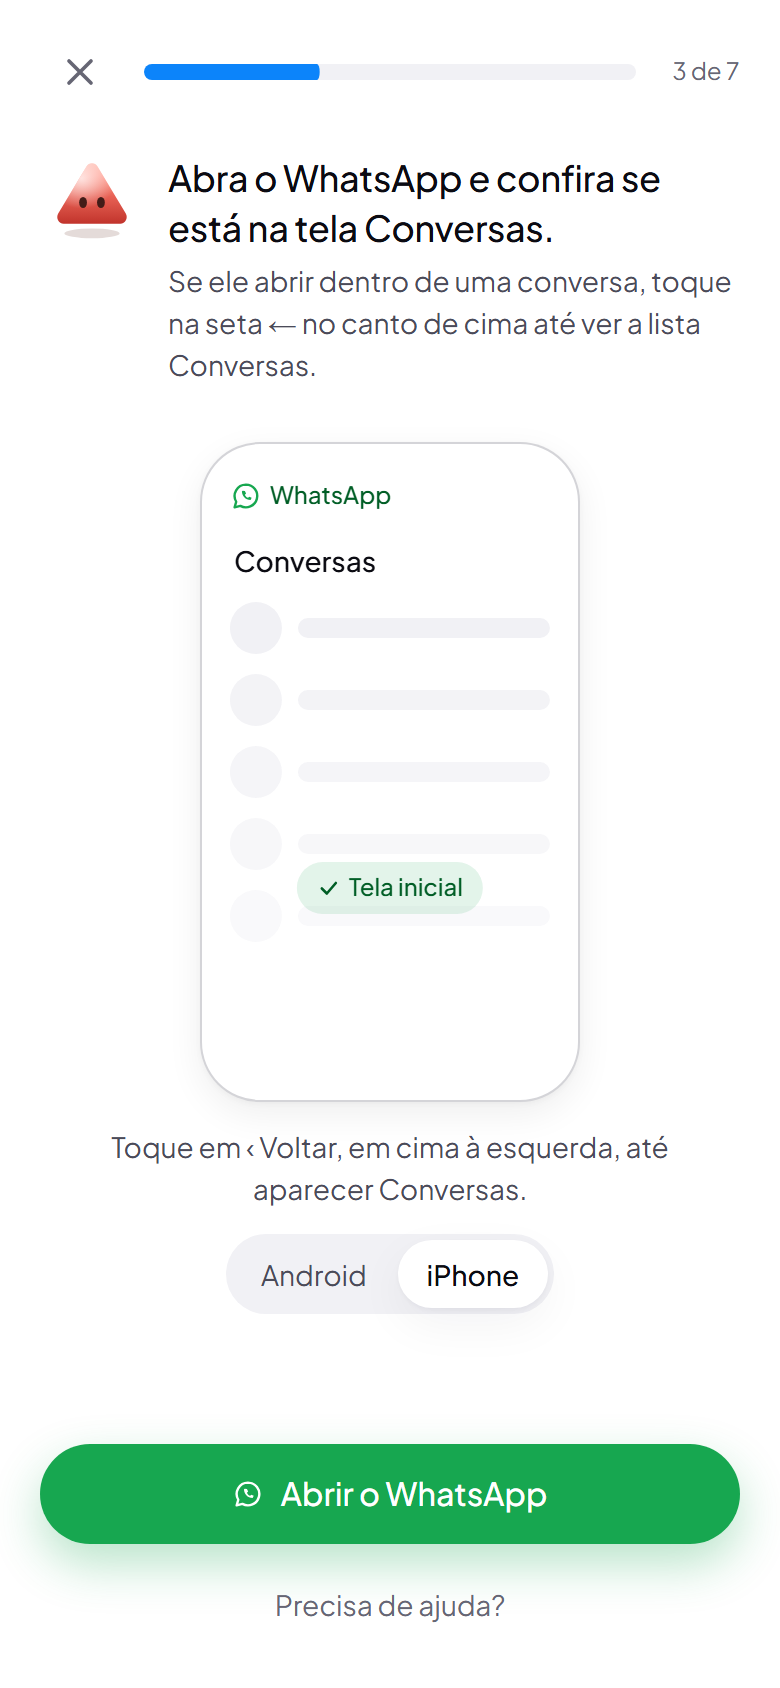
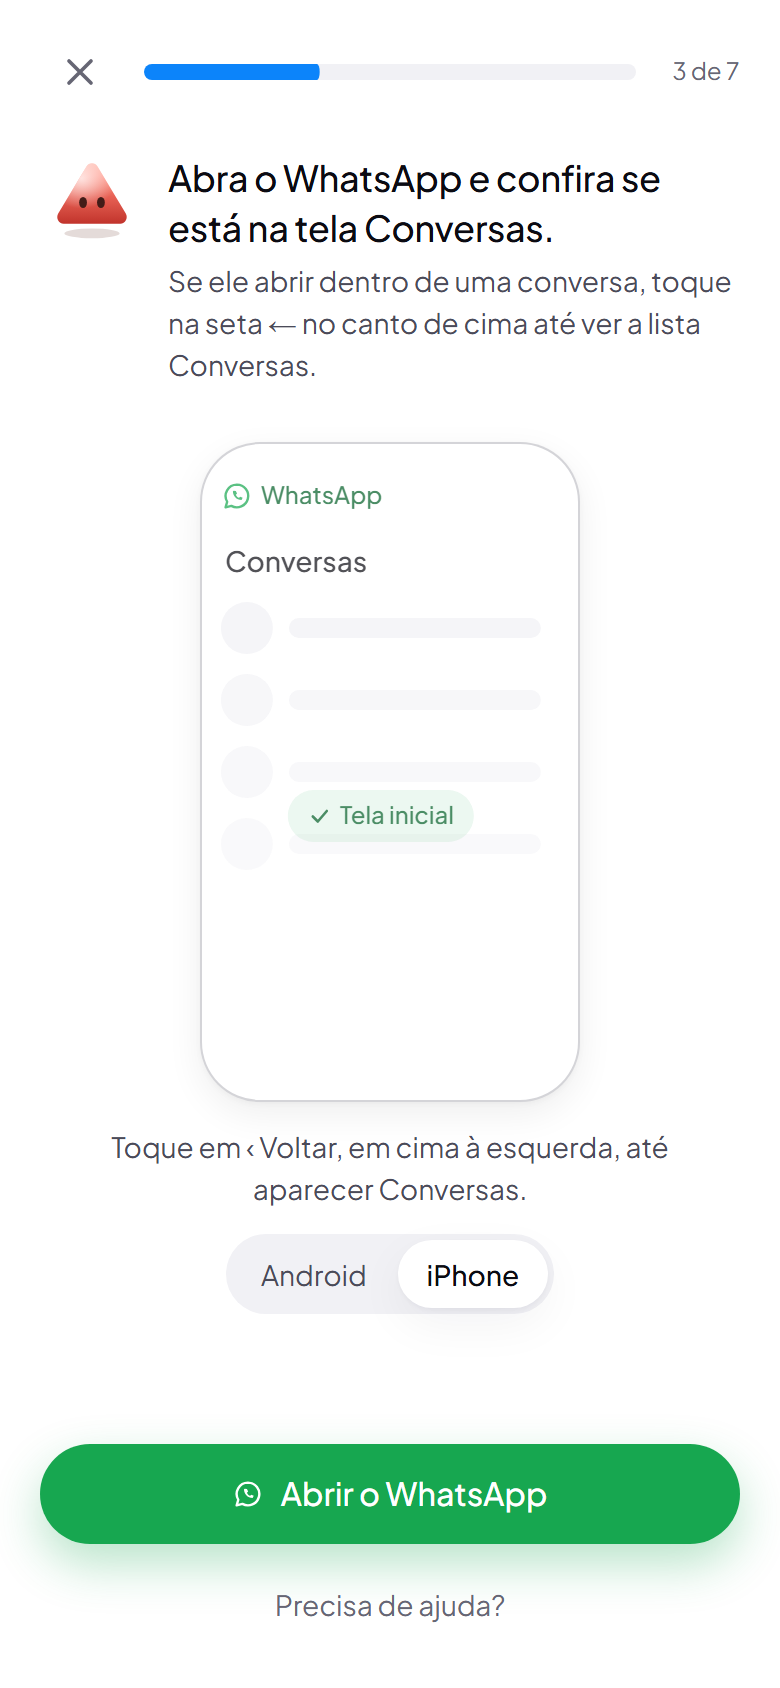
fix(plantao): "Abrir o WhatsApp" volta a abrir o app e avisa antes: tela inicial e 3 pontinhos
O link sem "send" (whatsapp:// e o intent com host vazio) não abria o WhatsApp no Android: o app só atende
whatsapp://send, que sem número nem texto apenas abre o app. Android usa o intent para whatsapp://send pelo
pacote (com o fallback para o WhatsApp Business); iPhone e demais, whatsapp://send.

Antes de sair do app, todo "Abrir o WhatsApp" do roteiro mostra "Quando o WhatsApp abrir:": ir para a tela
inicial (Conversas) e tocar nos 3 pontinhos (no iPhone, Configurações), com a ilustração do toque. O app abre
pelo botão do aviso.

Changed region(s): [[0.3692, 0.4621, 0.6154, 0.5545], [0.2769, 0.2773, 0.4923, 0.3389]]

diff --git a/src/components/chat/presence-guide/presence-guide.tsx b/src/components/chat/presence-guide/presence-guide.tsx
@@ -10,7 +10,7 @@ import { PRESENCE_GUIDE_COPY as COPY } from "@/features/waha-cadence/pairing-cop
 import { cn } from "@/utils/core/cn";
 
 import {
-  AttentionArt, BigCheck, CameraIcon, CheckIcon, CloseIcon, CopyIcon, guideEase, HomeScreenArt, LockIcon, PhoneMock,
+  AttentionArt, BeforeOpenArt, BigCheck, CameraIcon, CheckIcon, CloseIcon, CopyIcon, guideEase, HomeScreenArt, LockIcon, PhoneMock,
   Tiles, TilesSkeleton, WaIcon, WaitDots, WaitingMock, WelcomeArt,
 } from "./presence-guide-art";
 import {
@@ -62,7 +62,7 @@ export type PresenceGuidePresence = {
 };
 
 /** Só para o protótipo (/dev/roteiro-presenca) e testes: abre direto numa etapa ou estado. */
-export type PresenceGuidePreview = { step?: GuideStep; scene?: number; local?: LocalIssue | null; copied?: boolean; sheet?: "ajuda" | "sair" | null; platform?: GuidePlatform; openedHome?: boolean };
+export type PresenceGuidePreview = { step?: GuideStep; scene?: number; local?: LocalIssue | null; copied?: boolean; sheet?: "ajuda" | "sair" | "abrir" | null; platform?: GuidePlatform; openedHome?: boolean };
 
 export function PresenceGuide({ device, connection, duty, presence, onClose, openWhatsApp, preview }: {
   device: GuideDevice;
@@ -81,7 +81,9 @@ export function PresenceGuide({ device, connection, duty, presence, onClose, ope
   const [platform, setPlatform] = React.useState<GuidePlatform>(preview?.platform ?? "android");
   const [copied, setCopied] = React.useState(preview?.copied ?? false);
   const [local, setLocal] = React.useState<LocalIssue | null>(preview?.local ?? null);
-  const [sheet, setSheet] = React.useState<"ajuda" | "sair" | null>(preview?.sheet ?? null);
+  const [sheet, setSheet] = React.useState<"ajuda" | "sair" | "abrir" | null>(preview?.sheet ?? null);
+  // O que fazer depois de abrir o WhatsApp pelo aviso "Quando o WhatsApp abrir" (seguir para a próxima etapa).
+  const afterOpen = React.useRef<(() => void) | null>(null);
   const [openedHome, setOpenedHome] = React.useState(preview?.openedHome ?? false);
   const [video, setVideo] = React.useState(false);
   const [showSteps, setShowSteps] = React.useState(false);
@@ -148,6 +150,19 @@ export function PresenceGuide({ device, connection, duty, presence, onClose, ope
       if (notOpenedTimer.current) window.clearTimeout(notOpenedTimer.current);
     };
   }, []);
+
+  /** Antes de sair do app, o aviso: tela inicial e 3 pontinhos. O app abre pelo botão do aviso (toque do corretor). */
+  function askToOpenWhatsApp(then?: () => void) {
+    afterOpen.current = then ?? null;
+    setSheet("abrir");
+  }
+
+  function confirmOpenWhatsApp() {
+    setSheet(null);
+    afterOpen.current?.();
+    afterOpen.current = null;
+    launchWhatsApp();
+  }
 
   function launchWhatsApp() {
     const missing = () => setLocal("notOpened");
@@ -306,7 +321,7 @@ export function PresenceGuide({ device, connection, duty, presence, onClose, ope
         );
         cta$ = openedHome
           ? <button type="button" className={styles.cta} onClick={() => { setScene(0); setLocalStep("caminho"); }}>{COPY.home.cta}</button>
-          : <button type="button" className={styles.cta} data-tone="whatsapp" onClick={() => { setOpenedHome(true); launchWhatsApp(); }}><WaIcon light /> {COPY.home.open}</button>;
+          : <button type="button" className={styles.cta} data-tone="whatsapp" onClick={() => askToOpenWhatsApp(() => setOpenedHome(true))}><WaIcon light /> {COPY.home.open}</button>;
         break;
       case "caminho":
         scene$ = (
@@ -322,7 +337,7 @@ export function PresenceGuide({ device, connection, duty, presence, onClose, ope
         );
         cta$ = scene < 3
           ? <button type="button" className={styles.cta} onClick={() => setScene(scene + 1)}>{COPY.path.next}</button>
-          : <button type="button" className={styles.cta} data-tone="whatsapp" onClick={() => { setLocalStep("esperando"); launchWhatsApp(); }}><WaIcon light /> {COPY.path.cta}</button>;
+          : <button type="button" className={styles.cta} data-tone="whatsapp" onClick={() => askToOpenWhatsApp(() => setLocalStep("esperando"))}><WaIcon light /> {COPY.path.cta}</button>;
         break;
       case "esperando":
         scene$ = (
@@ -335,7 +350,7 @@ export function PresenceGuide({ device, connection, duty, presence, onClose, ope
             </div>
           </>
         );
-        cta$ = <button type="button" className={styles.cta} data-tone="whatsapp" onClick={launchWhatsApp}><WaIcon light /> {COPY.waiting.cta}</button>;
+        cta$ = <button type="button" className={styles.cta} data-tone="whatsapp" onClick={() => askToOpenWhatsApp()}><WaIcon light /> {COPY.waiting.cta}</button>;
         break;
       case "conectado":
         scene$ = (
@@ -416,9 +431,23 @@ export function PresenceGuide({ device, connection, duty, presence, onClose, ope
         {sheet ? (
           <>
             <motion.div key="scrim" className={styles.sheetScrim} onClick={() => setSheet(null)} initial={{ opacity: 0 }} animate={{ opacity: 1 }} exit={{ opacity: 0 }} transition={{ duration: 0.2 }} />
-            <motion.div key="sheet" className={styles.sheet} role="dialog" aria-label={sheet === "ajuda" ? COPY.help.title : COPY.exit.title} initial={reduce ? { opacity: 0 } : { y: 40, opacity: 0 }} animate={{ y: 0, opacity: 1 }} exit={reduce ? { opacity: 0 } : { y: 30, opacity: 0 }} transition={{ duration: 0.28, ease: guideEase }}>
+            <motion.div key="sheet" className={styles.sheet} role="dialog" aria-label={sheet === "ajuda" ? COPY.help.title : sheet === "abrir" ? COPY.beforeOpen.title : COPY.exit.title} initial={reduce ? { opacity: 0 } : { y: 40, opacity: 0 }} animate={{ y: 0, opacity: 1 }} exit={reduce ? { opacity: 0 } : { y: 30, opacity: 0 }} transition={{ duration: 0.28, ease: guideEase }}>
               <span className={styles.sheetGrip} />
-              {sheet === "ajuda" ? (
+              {sheet === "abrir" ? (
+                <>
+                  <span className={styles.sheetTitle}>{COPY.beforeOpen.title}</span>
+                  <ol className={styles.list} style={{ padding: "0 12px 4px" }}>
+                    {COPY.beforeOpen.steps[platform].map((text, index) => (
+                      <li key={text} className={styles.listItem} data-on="true"><span className={styles.listNum}>{index + 1}</span>{text}</li>
+                    ))}
+                  </ol>
+                  <div className={styles.art} style={{ padding: "4px 0" }}><BeforeOpenArt platform={platform} /></div>
+                  <div className={styles.sheetActions}>
+                    <button type="button" className={styles.cta} data-tone="whatsapp" onClick={confirmOpenWhatsApp}><WaIcon light /> {COPY.beforeOpen.cta}</button>
+                    <button type="button" className={styles.ghost} onClick={() => setSheet(null)}>{COPY.beforeOpen.back}</button>
+                  </div>
+                </>
+              ) : sheet === "ajuda" ? (
                 <>
                   <span className={styles.sheetTitle}>{COPY.help.title}</span>
                   <button type="button" className={styles.sheetItem} onClick={() => { setSheet(null); setVideo(true); }}><span className={styles.sheetItemTitle}>{COPY.help.video[0]}</span><span className={styles.sheetItemText}>{COPY.help.video[1]}</span></button>

diff --git a/src/components/whatsapp/open-whatsapp-app.ts b/src/components/whatsapp/open-whatsapp-app.ts
@@ -1,11 +1,13 @@
 /**
- * Abre o app do WhatsApp sem entrar em conversa nenhuma (09/11). O `whatsapp://send` antigo é um link de envio:
- * abria dentro da conversa com o número da empresa. Nenhum link força a tela inicial (o celular volta para a
- * última tela usada), por isso o roteiro de presença tem o passo "Garanta que você está na tela inicial".
+ * Abre o app do WhatsApp (09/11). Nenhum link abre direto na tela inicial: o celular volta para a última tela
+ * usada (às vezes a conversa com o número da empresa). Por isso o roteiro de presença avisa, antes de abrir, para
+ * voltar até a tela Conversas e tocar nos 3 pontinhos.
+ * Correção de 09/11 (tarde): o link sem `send` (`whatsapp://` e o intent com host vazio) não abria o app no Android:
+ * o WhatsApp só atende o endereço `whatsapp://send`. Sem número nem texto, ele só abre o app.
  *
- * - Android: link de intent pelo pacote. Tenta o WhatsApp comum; se não estiver instalado, o Chrome segue o
- *   `browser_fallback_url`, que só muda o `#` desta página, e aí tentamos o WhatsApp Business.
- * - iPhone e demais celulares: `whatsapp://`, que só abre o app.
+ * - Android: link de intent pelo pacote, para o `whatsapp://send`. Tenta o WhatsApp comum; se não estiver instalado,
+ *   o Chrome segue o `browser_fallback_url`, que só muda o `#` desta página, e aí tentamos o WhatsApp Business.
+ * - iPhone e demais: `whatsapp://send`.
  */
 export type WhatsAppAppPlatform = "android" | "ios" | "other";
 
@@ -23,9 +25,9 @@ export function detectWhatsAppPlatform(userAgent: string): WhatsAppAppPlatform {
 
 /** Link que só abre o app. `fallbackUrl` (só Android) é para onde o Chrome vai se o pacote não existir. */
 export function whatsappAppUrl(platform: WhatsAppAppPlatform, options: { pkg?: string; fallbackUrl?: string } = {}): string {
-  if (platform !== "android") return "whatsapp://";
+  if (platform !== "android") return "whatsapp://send";
   const fallback = options.fallbackUrl ? `S.browser_fallback_url=${encodeURIComponent(options.fallbackUrl)};` : "";
-  return `intent://#Intent;scheme=whatsapp;package=${options.pkg ?? WHATSAPP_PACKAGE};${fallback}end`;
+  return `intent://send#Intent;scheme=whatsapp;package=${options.pkg ?? WHATSAPP_PACKAGE};${fallback}end`;
 }
 
 function pageWithHash(hash: string) {

diff --git a/src/components/chat/presence-guide/presence-guide-art.tsx b/src/components/chat/presence-guide/presence-guide-art.tsx
@@ -106,6 +106,31 @@ export function HomeScreenArt({ platform }: { platform: GuidePlatform }) {
   );
 }
 
+/** Aviso antes de abrir: a tela inicial (Conversas) com o toque nos 3 pontinhos (no iPhone, em Configurações). */
+export function BeforeOpenArt({ platform }: { platform: GuidePlatform }) {
+  return (
+    <div className={styles.mock} style={{ width: 150, height: 170, borderRadius: 24 }} aria-hidden="true">
+      <div className={styles.mockTop}>
+        <span className={styles.mockBrand}><WaIcon /> WhatsApp</span>
+        <span className={styles.mockDots} style={platform === "android" ? { background: "var(--wa-soft)", color: "var(--wa-ink)", outline: "2px solid var(--wa)" } : undefined}>
+          ⋮{platform === "android" ? <Tap style={{ left: 1, top: 1 }} dot={false} /> : null}
+        </span>
+      </div>
+      <div className={styles.listTitle} style={{ fontSize: 12 }}>Conversas</div>
+      {[0, 1].map((index) => <div key={index} className={styles.convRow} style={{ marginTop: 6 }}><span className={styles.convAvatar} style={{ width: 20, height: 20 }} /><span className={styles.convLine} /></div>)}
+      {platform === "iphone" ? (
+        <div style={{ position: "absolute", left: 8, right: 8, bottom: 8, display: "flex", justifyContent: "space-around", alignItems: "center", height: 30, borderTop: "1px solid var(--border)" }}>
+          {[0, 1, 2, 3].map((index) => (
+            <span key={index} style={{ position: "relative", width: 18, height: 18, borderRadius: 9999, background: index === 3 ? "var(--wa-soft)" : "var(--surface-muted)", outline: index === 3 ? "2px solid var(--wa)" : undefined }}>
+              {index === 3 ? <Tap style={{ left: -4, top: -4 }} dot={false} /> : null}
+            </span>
+          ))}
+        </div>
+      ) : null}
+    </div>
+  );
+}
+
 /** O caminho dentro do WhatsApp: um toque por cena, avançando pelo corretor (não por tempo). */
 export function PhoneMock({ platform, scene }: { platform: GuidePlatform; scene: number }) {
   const reduce = useReducedMotion();

diff --git a/src/features/waha-cadence/pairing-copy.ts b/src/features/waha-cadence/pairing-copy.ts
@@ -281,7 +281,7 @@ export const PRESENCE_GUIDE_COPY = {
       iphone: ["Na tela Conversas, toque em Configurações, embaixo.", "Toque em Dispositivos conectados.", "Toque em Conectar dispositivo.", "Embaixo, toque em Conectar com número de telefone e cole o código."],
     },
     next: "Próximo toque",
-    cta: "Entendi, abrir o WhatsApp",
+    cta: "Abrir o WhatsApp",
   },
   waiting: { title: "Colou o código no WhatsApp? Estou esperando a confirmação.", sub: "Pode deixar esta tela aberta. Assim que conectar, eu sigo sozinho.", label: "Esperando o WhatsApp…", cta: "Abrir o WhatsApp de novo", again: "Ver o caminho de novo" },
   desktop: {
@@ -323,6 +323,16 @@ export const PRESENCE_GUIDE_COPY = {
     copyBlocked: { title: "Não consegui copiar. Anote o código:", sub: "Você vai digitar ele no WhatsApp.", cta: "Anotei" },
     unstable: { title: "O WhatsApp está instável agora. Pode confirmar sua presença mesmo assim.", sub: "Quando ele voltar, peço para você conectar.", cta: "Confirmar presença" },
     confirm: { cta: "Tentar de novo" },
+  },
+  /** Aparece ao tocar em "Abrir o WhatsApp", antes de sair do app: o que fazer assim que o WhatsApp abrir. */
+  beforeOpen: {
+    title: "Quando o WhatsApp abrir:",
+    steps: {
+      android: ["Vá para a tela inicial, a lista Conversas. Se abrir numa conversa, toque na seta ← em cima.", "Na tela inicial, toque nos 3 pontinhos ⋮, em cima à direita."],
+      iphone: ["Vá para a tela inicial, a lista Conversas. Se abrir numa conversa, toque em ‹ em cima.", "Na tela inicial, toque em Configurações, embaixo à direita."],
+    },
+    cta: "Entendi, abrir o WhatsApp",
+    back: "Voltar",
   },
   help: {
     title: "Precisa de ajuda?",

diff --git a/src/components/chat/presence-guide/presence-guide.test.tsx b/src/components/chat/presence-guide/presence-guide.test.tsx
@@ -38,6 +38,11 @@ describe("PresenceGuide (roteiro guiado de presença, 09/11)", () => {
     expect(screen.getByText("Abra o WhatsApp e confira se está na tela Conversas.")).toBeTruthy();
     expect(screen.getByText("3 de 7")).toBeTruthy();
     fireEvent.click(screen.getByRole("button", { name: /Abrir o WhatsApp/ }));
+    // Antes de sair do app, o aviso: tela inicial e 3 pontinhos. Só o botão do aviso abre o WhatsApp.
+    expect(open).not.toHaveBeenCalled();
+    expect(screen.getByRole("dialog", { name: "Quando o WhatsApp abrir:" })).toBeTruthy();
+    expect(screen.getByText(/toque nos 3 pontinhos/)).toBeTruthy();
+    fireEvent.click(screen.getByRole("button", { name: /Entendi, abrir o WhatsApp/ }));
     expect(open).toHaveBeenCalledTimes(1);
     fireEvent.click(screen.getByRole("button", { name: "Estou na tela de Conversas" }));
     expect(screen.getByText("Agora, no WhatsApp, você vai tocar em 4 lugares. Veja:")).toBeTruthy();
@@ -48,6 +53,7 @@ describe("PresenceGuide (roteiro guiado de presença, 09/11)", () => {
     const open = vi.fn();
     render(<PresenceGuide device="mobile" connection={connection()} duty={duty} presence={presence()} onClose={vi.fn()} openWhatsApp={open} preview={{ step: "caminho" }} />);
     for (let i = 0; i < 3; i += 1) fireEvent.click(screen.getByRole("button", { name: "Próximo toque" }));
+    fireEvent.click(screen.getByRole("button", { name: /Abrir o WhatsApp/ }));
     fireEvent.click(screen.getByRole("button", { name: /Entendi, abrir o WhatsApp/ }));
     expect(open).toHaveBeenCalledTimes(1);
     expect(screen.getByText("Colou o código no WhatsApp? Estou esperando a confirmação.")).toBeTruthy();

diff --git a/src/components/whatsapp/open-whatsapp-app.test.ts b/src/components/whatsapp/open-whatsapp-app.test.ts
@@ -9,16 +9,19 @@ describe("abrir o app do WhatsApp sem entrar em conversa (09/11)", () => {
     expect(detectWhatsAppPlatform("Mozilla/5.0 (Windows NT 10.0; Win64; x64)")).toBe("other");
   });
 
-  it("nunca usa o link de envio de mensagem", () => {
-    for (const platform of ["android", "ios", "other"] as const) expect(whatsappAppUrl(platform)).not.toContain("send");
+  it("usa o endereço que o WhatsApp atende (send), sem número nem texto: só abre o app", () => {
+    for (const platform of ["android", "ios", "other"] as const) {
+      expect(whatsappAppUrl(platform)).toContain("send");
+      expect(whatsappAppUrl(platform)).not.toMatch(/phone=|text=|wa\.me/);
+    }
   });
 
-  it("no iPhone só abre o app", () => {
-    expect(whatsappAppUrl("ios")).toBe("whatsapp://");
+  it("no iPhone abre o app pelo whatsapp://send", () => {
+    expect(whatsappAppUrl("ios")).toBe("whatsapp://send");
   });
 
   it("no Android abre pelo pacote, com o Business e o fallback quando pedidos", () => {
-    expect(whatsappAppUrl("android")).toBe("intent://#Intent;scheme=whatsapp;package=com.whatsapp;end");
+    expect(whatsappAppUrl("android")).toBe("intent://send#Intent;scheme=whatsapp;package=com.whatsapp;end");
     const business = whatsappAppUrl("android", { pkg: WHATSAPP_BUSINESS_PACKAGE, fallbackUrl: "https://crm.ancorasaude.cloud/plantoes/agora#x" });
     expect(business).toContain("package=com.whatsapp.w4b;");
     expect(business).toContain("S.browser_fallback_url=https%3A%2F%2Fcrm.ancorasaude.cloud%2Fplantoes%2Fagora%23x;");

diff --git a/src/app/dev/roteiro-presenca/roteiro-preview.tsx b/src/app/dev/roteiro-presenca/roteiro-preview.tsx
@@ -149,9 +149,11 @@ export function RoteiroPresencaPreview() {
         ...current.preview,
         scene: cena >= 0 && cena <= 3 ? cena : 0,
         platform: p.get("plataforma") === "iphone" ? "iphone" : "android",
-        sheet: folha === "ajuda" || folha === "sair" ? folha : null,
+        sheet: folha === "ajuda" || folha === "sair" || folha === "abrir" ? folha : null,
       },
     }));
+    // Remonta o roteiro com os extras (ele lê a prévia só ao montar).
+    setMount((m) => m + 1);
     /* eslint-enable react-hooks/set-state-in-effect */
   }, [apply]);
 

diff --git a/src/components/whatsapp/whatsapp-connect-dialog.test.tsx b/src/components/whatsapp/whatsapp-connect-dialog.test.tsx
@@ -68,7 +68,7 @@ describe("WhatsAppConnectDialog mobile access", () => {
     render(<WhatsAppConnectDialog initial={readyConnection} />);
     fireEvent.click(screen.getByRole("button", { name: "WhatsApp conectado" }));
     fireEvent.click(await screen.findByRole("button", { name: /Abrir WhatsApp/ }));
-    expect(window.open).toHaveBeenCalledWith("whatsapp://", "_self");
+    expect(window.open).toHaveBeenCalledWith("whatsapp://send", "_self");
     expect(mocks.start).not.toHaveBeenCalled();
   });
 

diff --git a/docs/implementations/active/2026-11-09-roteiro-guiado-presenca-whatsapp.md b/docs/implementations/active/2026-11-09-roteiro-guiado-presenca-whatsapp.md
@@ -305,3 +305,18 @@ para a última tela usada.
 - O fluxo com WhatsApp de verdade (WAHA) não foi rodado: o protótipo simula a conexão; a ligação com o diálogo real
   está coberta por testes.
 - Pendente do plano: o botão do link do lembrete (`/confirm_presence`) ainda leva a `/plantoes/agora` sem `?guia=1`.
+
+## 11. Ajuste de 09/11 (noite): o WhatsApp não abria e o aviso antes de abrir
+
+Pedido do Vinicios: "Abrir o WhatsApp" não abria o app; e, antes de abrir, mostrar que é na tela inicial, nos
+3 pontinhos.
+
+- **Causa:** o link do ajuste anterior não tinha o `send` (`whatsapp://` e o intent com host vazio). O WhatsApp só
+  atende o endereço `whatsapp://send`; sem número nem texto, ele só abre o app. Agora: Android
+  `intent://send#Intent;scheme=whatsapp;package=com.whatsapp;…` (com o fallback para o Business), iPhone e demais
+  `whatsapp://send`.
+- **Aviso antes de abrir:** todo "Abrir o WhatsApp" do roteiro abre primeiro a folha "Quando o WhatsApp abrir:" com
+  1) ir para a tela inicial (Conversas), voltando pela seta se cair numa conversa, e 2) tocar nos 3 pontinhos ⋮ em
+  cima à direita (no iPhone, Configurações embaixo), com a ilustração do toque. O app abre pelo botão
+  "Entendi, abrir o WhatsApp" do aviso (o toque do corretor, que o celular exige para abrir outro app).
+- Continua sem teste em Android e iPhone reais.
